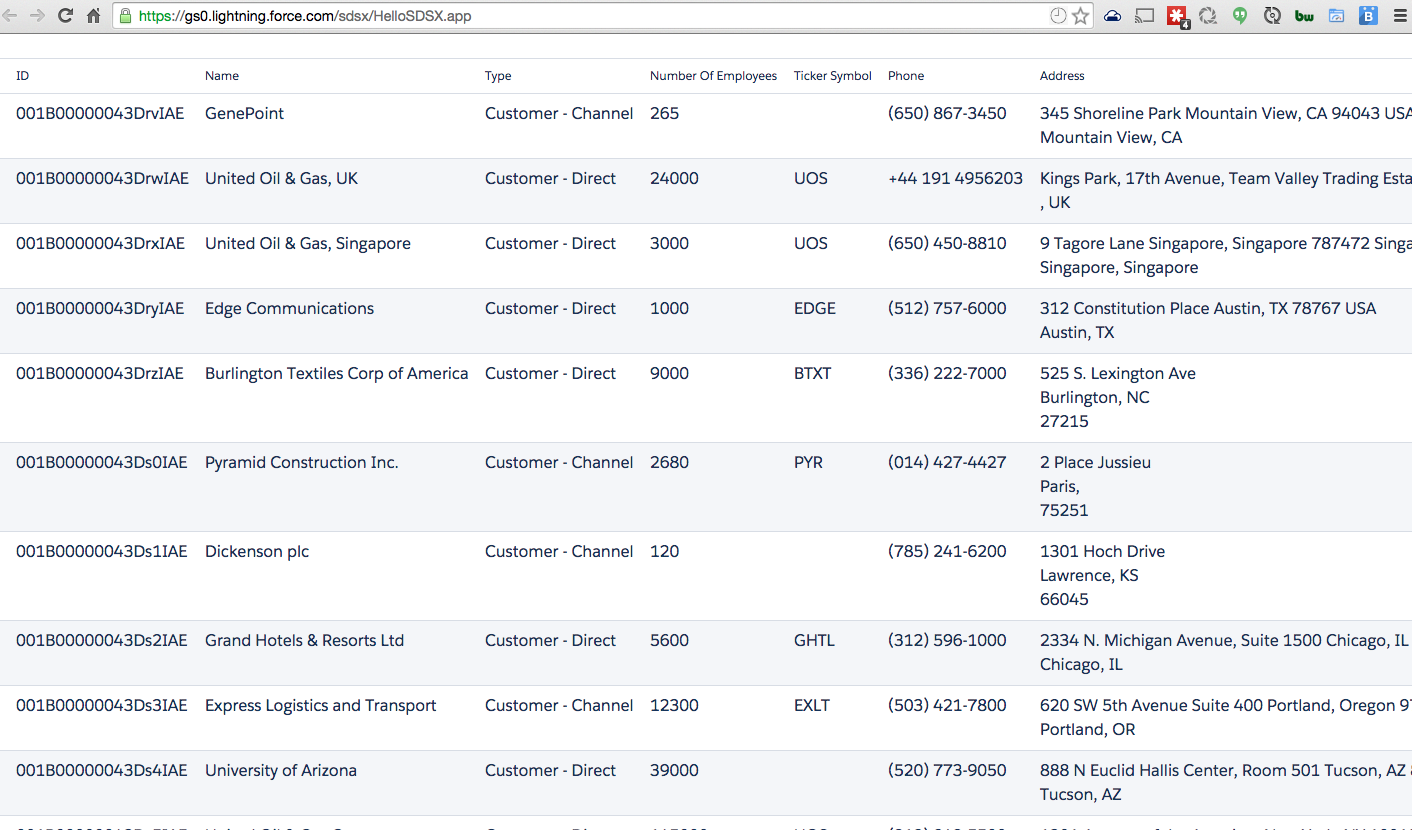
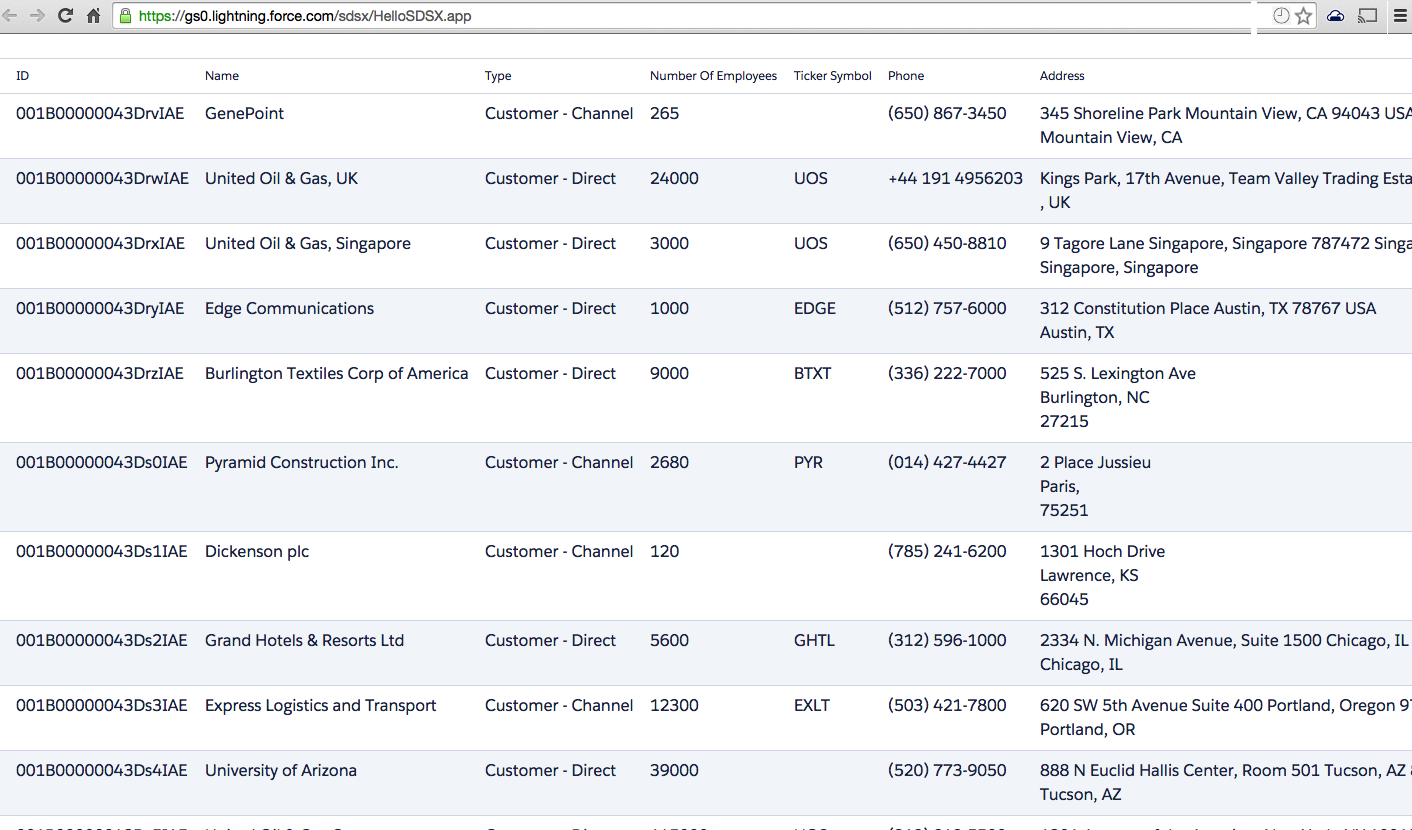
update tutorial

Changed region(s): [[0.7479, 0.0, 0.9972, 0.0602], [0.0935, 0.0, 0.1246, 0.0301]]

diff --git a/tutorial/tutorial.md b/tutorial/tutorial.md
@@ -195,7 +195,7 @@ In SDSX components, they correspond to "size", "mdSize" and "lgSize" respectivel
 In this example, we will build a simple Accounts app that shows list of accounts in a table.
 We'll use raw CSS instead of SDSX components just to show that you can use it directly as well. 
 
-![image](https://raw.githubusercontent.com/ForceDotComLabs/sdsx/master/tutorial/accountsAppPic.png?token=AAmOoaXkZJm2Ops8ZaKJWPUeqPVHkooTks5VyAPiwA%3D%3D)
+![image](https://raw.githubusercontent.com/ForceDotComLabs/sdsx/master/tutorial/accountsAppPic.png?token=AAmOoSz6452ZSIiTdPkVMsouxEIrJmFJks5VyDpNwA%3D%3D)
 
 #### Create Accounts Apex Controller
 1. In Developer console, Click on New > Create Apex Class
